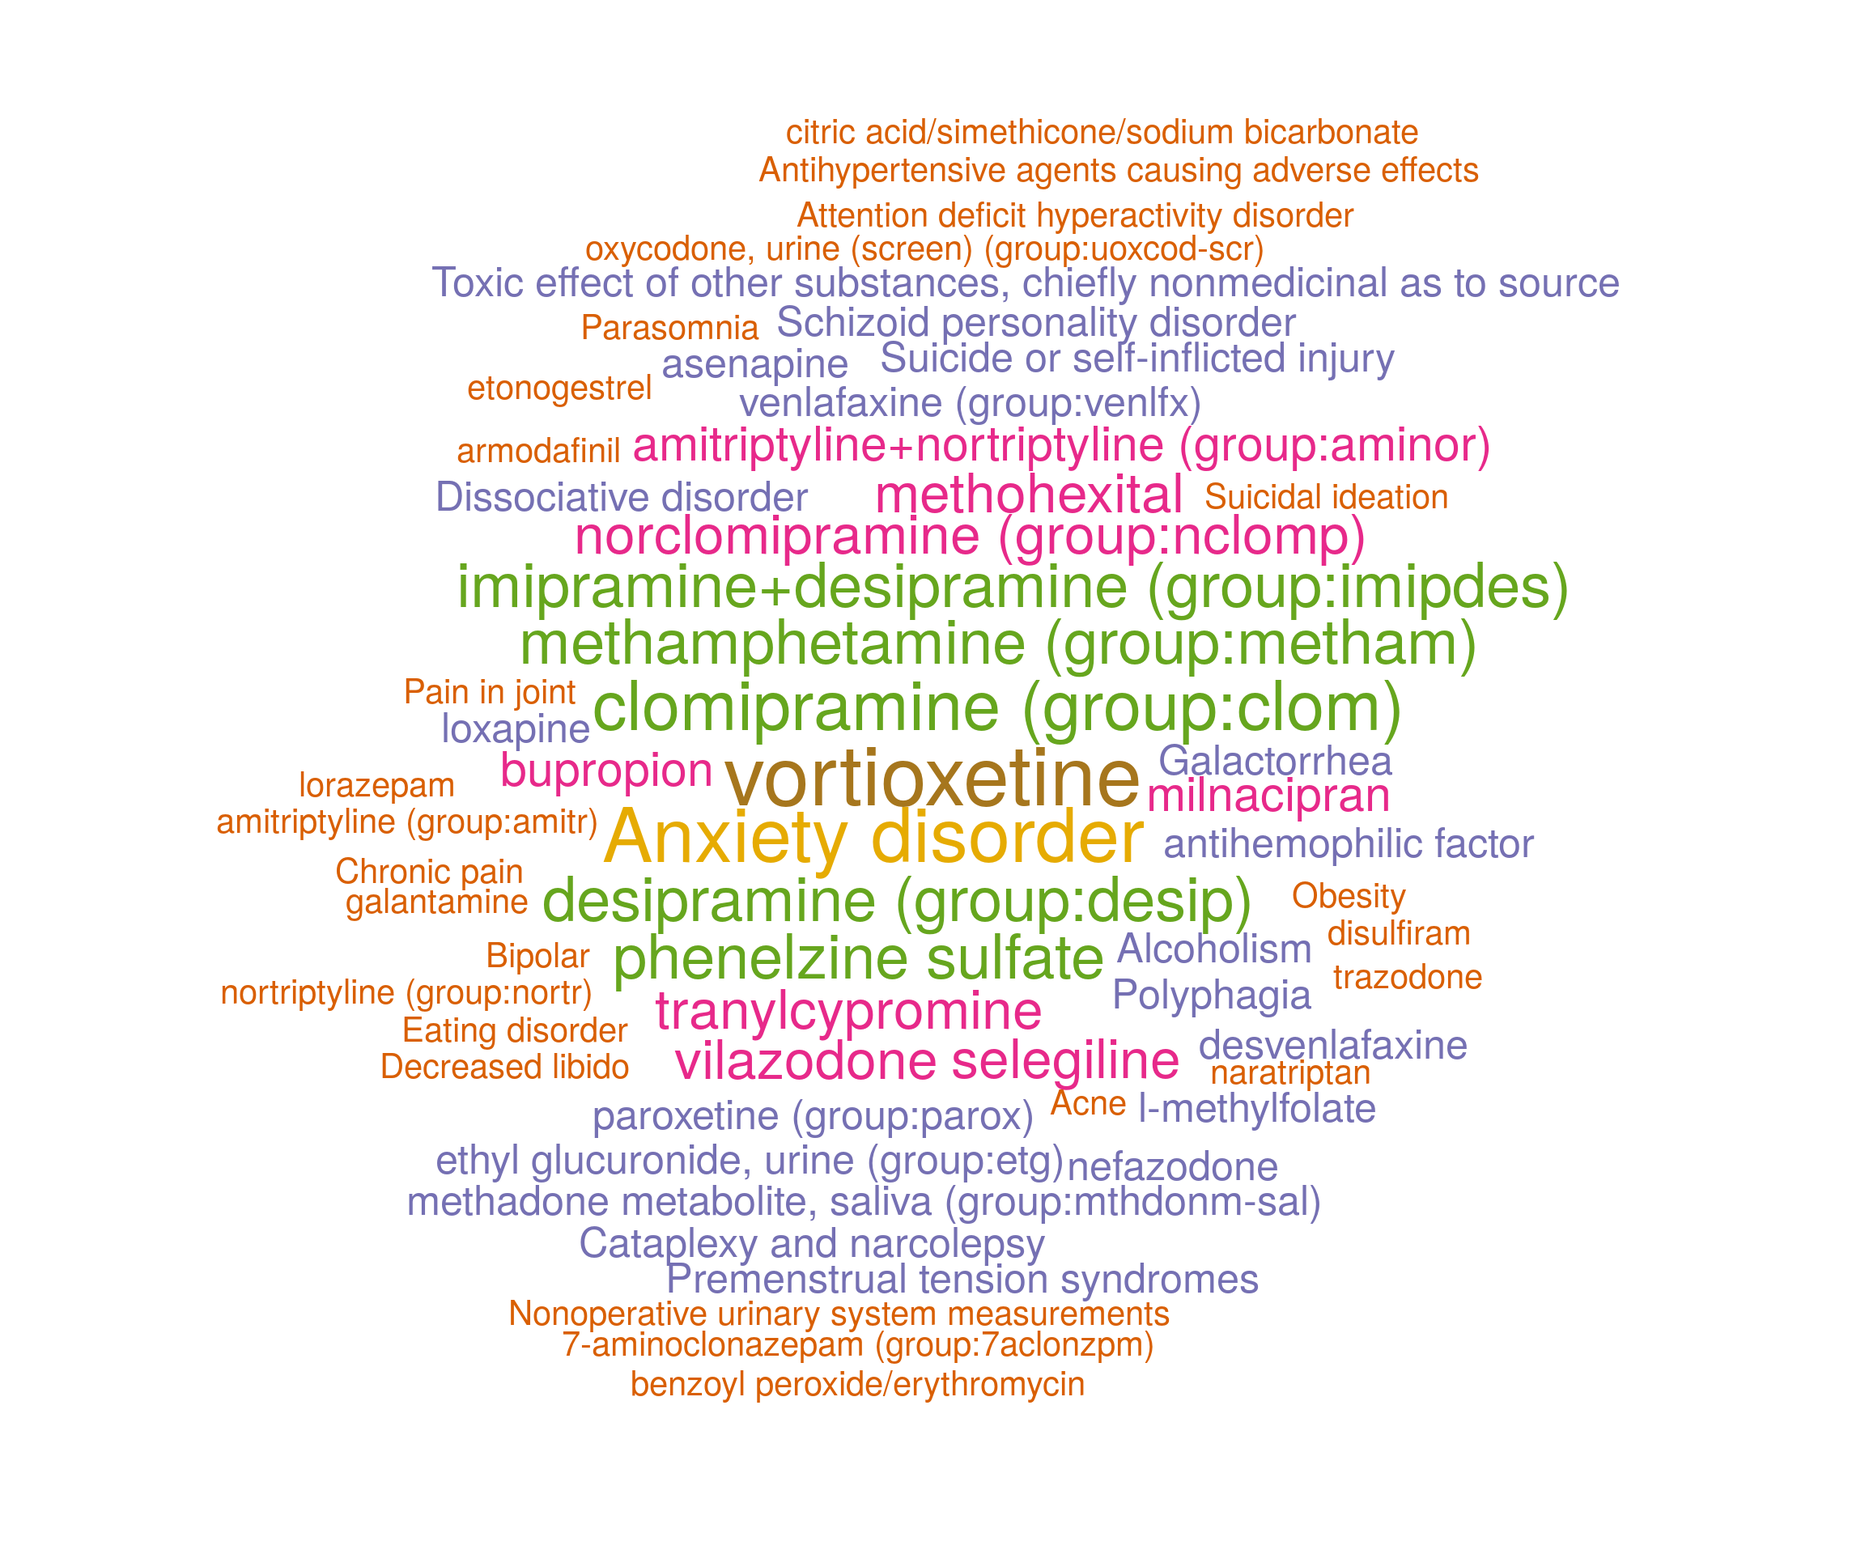
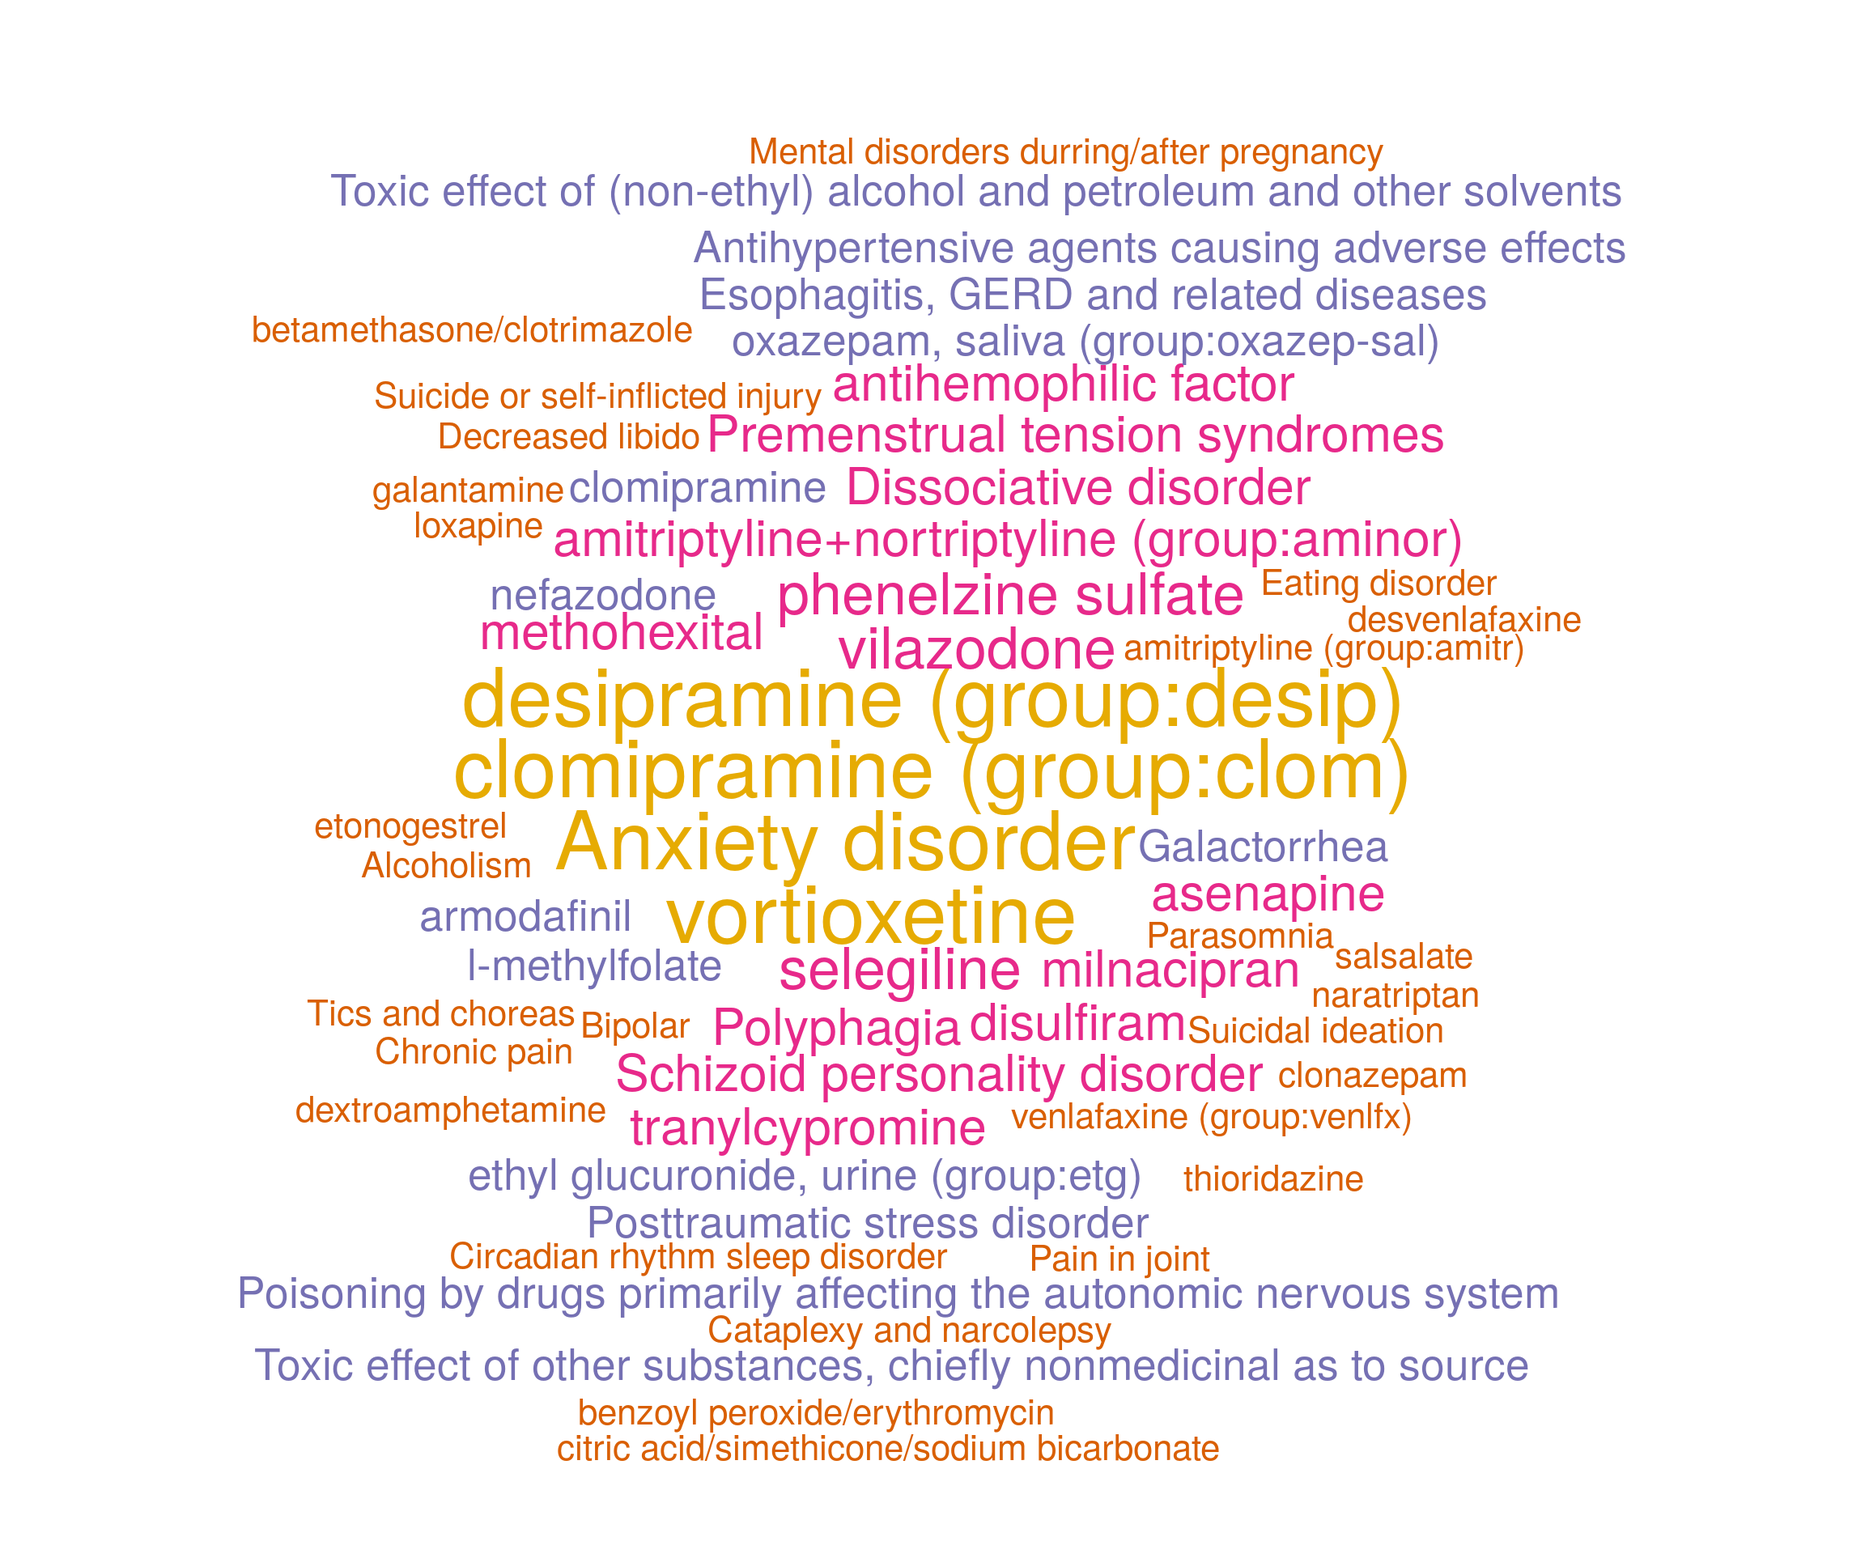
2020-05-29

Changed region(s): [[0.125, 0.0625, 0.875, 0.9375], [0.25, 0.0938, 0.2812, 0.125], [0.1875, 0.0938, 0.2188, 0.125]]

diff --git a/docs/articles/single.html b/docs/articles/single.html
@@ -88,30 +88,30 @@
 <span class="no">data</span> <span class="kw">&lt;-</span> <span class="fu"><a href="https://rdrr.io/r/base/readRDS.html">readRDS</a></span>(<span class="fu"><a href="https://rdrr.io/r/base/connections.html">url</a></span>(<span class="fu"><a href="https://rdrr.io/r/base/paste.html">paste0</a></span>(<span class="no">dir</span>, <span class="st">"depression.rds"</span>), <span class="st">"rb"</span>))
 <span class="no">dict</span> <span class="kw">&lt;-</span> <span class="fu"><a href="https://rdrr.io/r/base/readRDS.html">readRDS</a></span>(<span class="fu"><a href="https://rdrr.io/r/base/connections.html">url</a></span>(<span class="fu"><a href="https://rdrr.io/r/base/paste.html">paste0</a></span>(<span class="no">dir</span>, <span class="st">"dictionary.rds"</span>), <span class="st">"rb"</span>))</pre></body></html></div>
 <p>Feature Selection with Embeddings from Partners Healthcare</p>
-<div class="sourceCode" id="cb4"><html><body><pre class="r"><span class="fu"><a href="https://rdrr.io/r/base/system.time.html">system.time</a></span>(<span class="no">loc.fit.RPDR</span> <span class="kw">&lt;-</span> <span class="fu"><a href="../reference/loc.feature.selection.html">loc.feature.selection</a></span>(
+<div class="sourceCode" id="cb4"><html><body><pre class="r"><span class="fu"><a href="https://rdrr.io/r/base/Random.html">set.seed</a></span>(<span class="fl">123</span>)
+<span class="fu"><a href="https://rdrr.io/r/base/system.time.html">system.time</a></span>(<span class="no">loc.fit.RPDR</span> <span class="kw">&lt;-</span> <span class="fu"><a href="../reference/loc.feature.selection.html">loc.feature.selection</a></span>(
   <span class="no">data</span>$<span class="no">X_full_lst</span><span class="kw">[[</span><span class="fl">1</span>]], <span class="no">data</span>$<span class="no">Y_full_lst</span><span class="kw">[[</span><span class="fl">1</span>]],
   <span class="no">data</span>$<span class="no">X_train_lst</span><span class="kw">[[</span><span class="fl">1</span>]], <span class="no">data</span>$<span class="no">Y_train_lst</span><span class="kw">[[</span><span class="fl">1</span>]],
   <span class="no">data</span>$<span class="no">X_valid_lst</span><span class="kw">[[</span><span class="fl">1</span>]], <span class="no">data</span>$<span class="no">Y_valid_lst</span><span class="kw">[[</span><span class="fl">1</span>]],
   <span class="kw">alpha</span> <span class="kw">=</span> <span class="fl">1</span>, <span class="kw">lambda_lst</span> <span class="kw">=</span> <span class="kw">NULL</span>, <span class="kw">up_rate</span> <span class="kw">=</span> <span class="fl">10</span>,
   <span class="kw">drop_rate</span> <span class="kw">=</span> <span class="fl">0.5</span>, <span class="kw">cos_cut</span> <span class="kw">=</span> <span class="fl">0.1</span>, <span class="kw">add.ridge</span> <span class="kw">=</span> <span class="fl">TRUE</span>))</pre></body></html></div>
 <pre><code>##    user  system elapsed 
-## 109.847  16.833  98.572</code></pre>
+## 104.518  15.264  94.271</code></pre>
 <div class="sourceCode" id="cb6"><html><body><pre class="r"><span class="no">results.RPDR</span> <span class="kw">&lt;-</span> <span class="fu"><a href="https://rdrr.io/r/base/merge.html">merge</a></span>(<span class="no">loc.fit.RPDR</span>$<span class="no">results</span>, <span class="no">dict</span>, <span class="kw">all.x</span> <span class="kw">=</span> <span class="fl">TRUE</span>)
 <span class="no">results.RPDR</span></pre></body></html></div>
 <pre><code>##              name        coef                                          description
-##   1:      CCS:130 0.000000000           Other diagnostic procedures, female organs
-##   2:      CCS:182 0.013853775                                          Mammography
-##   3:      CCS:200 0.029451578             Nonoperative urinary system measurements
-##   4:      CCS:218 0.128414891 Psychological and psychiatric evaluation and therapy
-##   5:      CCS:219 0.003974169       Alcohol and drug rehabilitation/detoxification
+##   1:      CCS:130 0.007307169           Other diagnostic procedures, female organs
+##   2:      CCS:182 0.021885287                                          Mammography
+##   3:      CCS:200 0.018956719             Nonoperative urinary system measurements
+##   4:      CCS:218 0.124579578 Psychological and psychiatric evaluation and therapy
+##   5:      CCS:219 0.008452966       Alcohol and drug rehabilitation/detoxification
 ##  ---                                                                              
-## 308:  RXNORM:8629 0.013874670                                             prazosin
-## 309:  RXNORM:8787 0.000000000                                          propranolol
-## 310: RXNORM:89013 0.000000000                                         aripiprazole
-## 311: RXNORM:89905 0.000000000                                        multivitamins
-## 312:  RXNORM:9639 0.056428741                                           selegiline</code></pre>
-<div class="sourceCode" id="cb8"><html><body><pre class="r"><span class="fu"><a href="https://rdrr.io/r/base/Random.html">set.seed</a></span>(<span class="fl">1234</span>)
-<span class="fu"><a href="https://rdrr.io/pkg/wordcloud/man/wordcloud.html">wordcloud</a></span>(<span class="kw">words</span> <span class="kw">=</span> <span class="no">results.RPDR</span>$<span class="no">description</span>,
+## 305:  RXNORM:8629 0.000000000                                             prazosin
+## 306:  RXNORM:8787 0.000000000                                          propranolol
+## 307: RXNORM:89013 0.009620296                                         aripiprazole
+## 308: RXNORM:89905 0.000000000                                        multivitamins
+## 309:  RXNORM:9639 0.060960107                                           selegiline</code></pre>
+<div class="sourceCode" id="cb8"><html><body><pre class="r"><span class="fu"><a href="https://rdrr.io/pkg/wordcloud/man/wordcloud.html">wordcloud</a></span>(<span class="kw">words</span> <span class="kw">=</span> <span class="no">results.RPDR</span>$<span class="no">description</span>,
           <span class="kw">freq</span> <span class="kw">=</span> <span class="fu"><a href="https://rdrr.io/r/base/Round.html">round</a></span>(<span class="fu"><a href="https://rdrr.io/r/base/numeric.html">as.numeric</a></span>(<span class="no">results.RPDR</span>$<span class="no">coef</span>) * <span class="fl">100</span>),
           <span class="kw">random.order</span> <span class="kw">=</span> <span class="fl">FALSE</span>,
           <span class="kw">colors</span> <span class="kw">=</span> <span class="fu">brewer.pal</span>(<span class="fl">8</span>, <span class="st">"Dark2"</span>),
@@ -125,28 +125,29 @@
 ## plotted.</code></pre>
 <p><img src="single_files/figure-html/unnamed-chunk-5-1.png" width="1152"></p>
 <p>Feature Selection with Embeddings from Veteran Affairs (VA)</p>
-<div class="sourceCode" id="cb11"><html><body><pre class="r"><span class="fu"><a href="https://rdrr.io/r/base/system.time.html">system.time</a></span>(<span class="no">loc.fit.VA</span> <span class="kw">&lt;-</span> <span class="fu"><a href="../reference/loc.feature.selection.html">loc.feature.selection</a></span>(
+<div class="sourceCode" id="cb11"><html><body><pre class="r"><span class="fu"><a href="https://rdrr.io/r/base/Random.html">set.seed</a></span>(<span class="fl">123</span>)
+<span class="fu"><a href="https://rdrr.io/r/base/system.time.html">system.time</a></span>(<span class="no">loc.fit.VA</span> <span class="kw">&lt;-</span> <span class="fu"><a href="../reference/loc.feature.selection.html">loc.feature.selection</a></span>(
   <span class="no">data</span>$<span class="no">X_full_lst</span><span class="kw">[[</span><span class="fl">2</span>]], <span class="no">data</span>$<span class="no">Y_full_lst</span><span class="kw">[[</span><span class="fl">2</span>]],
   <span class="no">data</span>$<span class="no">X_train_lst</span><span class="kw">[[</span><span class="fl">2</span>]], <span class="no">data</span>$<span class="no">Y_train_lst</span><span class="kw">[[</span><span class="fl">2</span>]],
   <span class="no">data</span>$<span class="no">X_valid_lst</span><span class="kw">[[</span><span class="fl">2</span>]], <span class="no">data</span>$<span class="no">Y_valid_lst</span><span class="kw">[[</span><span class="fl">2</span>]],
   <span class="kw">alpha</span> <span class="kw">=</span> <span class="fl">1</span>, <span class="kw">lambda_lst</span> <span class="kw">=</span> <span class="kw">NULL</span>, <span class="kw">up_rate</span> <span class="kw">=</span> <span class="fl">10</span>,
   <span class="kw">drop_rate</span> <span class="kw">=</span> <span class="fl">0.5</span>, <span class="kw">cos_cut</span> <span class="kw">=</span> <span class="fl">0.1</span>, <span class="kw">add.ridge</span> <span class="kw">=</span> <span class="fl">TRUE</span>))</pre></body></html></div>
 <pre><code>##    user  system elapsed 
-## 314.037  33.523 286.888</code></pre>
+## 306.278  29.707 283.194</code></pre>
 <div class="sourceCode" id="cb13"><html><body><pre class="r"><span class="no">results.VA</span> <span class="kw">&lt;-</span> <span class="fu"><a href="https://rdrr.io/r/base/merge.html">merge</a></span>(<span class="no">loc.fit.VA</span>$<span class="no">results</span>, <span class="no">dict</span>, <span class="kw">all.x</span> <span class="kw">=</span> <span class="fl">TRUE</span>)
 <span class="no">results.VA</span></pre></body></html></div>
-<pre><code>##                        name       coef
-##   1:                CCS:130 0.01337469
-##   2:                CCS:131 0.00000000
-##   3:                CCS:156 0.00000000
-##   4:                CCS:163 0.00000000
-##   5:                CCS:182 0.00000000
-##  ---                                  
-## 465: ShortName:HCV - RNA VL 0.00000000
-## 466:         ShortName:HDLC 0.00000000
-## 467:         ShortName:LDLC 0.00000000
-## 468:      ShortName:TotChol 0.00000000
-## 469:         ShortName:Trig 0.00000000
+<pre><code>##                        name        coef
+##   1:                CCS:130 0.012795005
+##   2:                CCS:131 0.000000000
+##   3:                CCS:156 0.002758091
+##   4:                CCS:163 0.000000000
+##   5:                CCS:182 0.004621010
+##  ---                                   
+## 464: ShortName:HCV - RNA VL 0.000000000
+## 465:         ShortName:HDLC 0.000000000
+## 466:         ShortName:LDLC 0.000000000
+## 467:      ShortName:TotChol 0.000000000
+## 468:         ShortName:Trig 0.000000000
 ##                                                                        description
 ##   1:                                    Other diagnostic procedures, female organs
 ##   2:                            Other non-OR therapeutic procedures, female organs
@@ -154,23 +155,22 @@
 ##   4:                 Other non-OR therapeutic procedures on musculoskeletal system
 ##   5:                                                                   Mammography
 ##  ---                                                                              
-## 465:                                                        ShortName:HCV - RNA VL
-## 466:                                                                ShortName:HDLC
-## 467:                                                                ShortName:LDLC
-## 468:                                                             ShortName:TotChol
-## 469:                                                                ShortName:Trig</code></pre>
-<div class="sourceCode" id="cb15"><html><body><pre class="r"><span class="fu"><a href="https://rdrr.io/r/base/Random.html">set.seed</a></span>(<span class="fl">1234</span>)
-<span class="fu"><a href="https://rdrr.io/pkg/wordcloud/man/wordcloud.html">wordcloud</a></span>(<span class="kw">words</span> <span class="kw">=</span> <span class="no">results.VA</span>$<span class="no">description</span>,
+## 464:                                                        ShortName:HCV - RNA VL
+## 465:                                                                ShortName:HDLC
+## 466:                                                                ShortName:LDLC
+## 467:                                                             ShortName:TotChol
+## 468:                                                                ShortName:Trig</code></pre>
+<div class="sourceCode" id="cb15"><html><body><pre class="r"><span class="fu"><a href="https://rdrr.io/pkg/wordcloud/man/wordcloud.html">wordcloud</a></span>(<span class="kw">words</span> <span class="kw">=</span> <span class="no">results.VA</span>$<span class="no">description</span>,
           <span class="kw">freq</span> <span class="kw">=</span> <span class="fu"><a href="https://rdrr.io/r/base/Round.html">round</a></span>(<span class="fu"><a href="https://rdrr.io/r/base/numeric.html">as.numeric</a></span>(<span class="no">results.VA</span>$<span class="no">coef</span>) * <span class="fl">100</span>),
           <span class="kw">random.order</span> <span class="kw">=</span> <span class="fl">FALSE</span>,
           <span class="kw">colors</span> <span class="kw">=</span> <span class="fu">brewer.pal</span>(<span class="fl">8</span>, <span class="st">"Dark2"</span>),
           <span class="co"># scale = c(4, 0.2),</span>
           <span class="kw">rot.per</span> <span class="kw">=</span> <span class="fl">0</span>)</pre></body></html></div>
-<pre><code>## Warning in wordcloud(words = results.VA$description, freq = round(as.numeric(results.VA$coef) * :
-## Posttraumatic stress disorder could not be fit on page. It will not be plotted.</code></pre>
 <pre><code>## Warning in wordcloud(words = results.VA$description, freq = round(as.numeric(results.VA$coef)
 ## * : Psychological and psychiatric evaluation and therapy could not be fit on page. It will not be
 ## plotted.</code></pre>
+<pre><code>## Warning in wordcloud(words = results.VA$description, freq = round(as.numeric(results.VA$coef) * :
+## Posttraumatic stress disorder could not be fit on page. It will not be plotted.</code></pre>
 <p><img src="single_files/figure-html/unnamed-chunk-7-1.png" width="1152"></p>
   </div>
 

diff --git a/docs/articles/multiple.html b/docs/articles/multiple.html
@@ -91,24 +91,24 @@
   <span class="no">data</span>$<span class="no">X_valid_lst</span>[<span class="fl">1</span>:<span class="fl">2</span>], <span class="no">data</span>$<span class="no">Y_valid_lst</span>[<span class="fl">1</span>:<span class="fl">2</span>],
   <span class="kw">lambda_lst</span> <span class="kw">=</span> <span class="kw">NULL</span>, <span class="kw">add.ridge</span> <span class="kw">=</span> <span class="fl">TRUE</span>))</pre></body></html></div>
 <pre><code>##     user   system  elapsed 
-## 2099.633   41.436 2088.534</code></pre>
+## 2033.304   37.626 2027.245</code></pre>
 <div class="sourceCode" id="cb4"><html><body><pre class="r"><span class="no">int.fit.results</span></pre></body></html></div>
 <pre><code>## $lambda
-## [1] 3.441469e-05
+## [1] 2.722572e-05
 ## 
 ## $results
-##                        name       coef1       coef2
-##   1:                CCS:130 0.006011309 0.008617473
-##   2:                CCS:131 0.000000000 0.000000000
-##   3:                CCS:156 0.000000000 0.000000000
-##   4:                CCS:163 0.000000000 0.000000000
-##   5:                CCS:182 0.000000000 0.000000000
-##  ---                                               
-## 654: ShortName:HCV - RNA VL          NA 0.000000000
-## 655:         ShortName:HDLC          NA 0.000000000
-## 656:         ShortName:LDLC          NA 0.000000000
-## 657:      ShortName:TotChol          NA 0.000000000
-## 658:         ShortName:Trig          NA 0.000000000</code></pre>
+##                        name       coef1      coef2
+##   1:                CCS:130 0.008031842 0.00699418
+##   2:                CCS:131 0.000000000 0.00000000
+##   3:                CCS:156 0.000000000 0.00000000
+##   4:                CCS:163 0.000000000 0.00000000
+##   5:                CCS:182 0.000000000 0.00000000
+##  ---                                              
+## 650: ShortName:HCV - RNA VL          NA 0.00000000
+## 651:         ShortName:HDLC          NA 0.00000000
+## 652:         ShortName:LDLC          NA 0.00000000
+## 653:      ShortName:TotChol          NA 0.00000000
+## 654:         ShortName:Trig          NA 0.00000000</code></pre>
   </div>
 
   <div class="col-md-3 hidden-xs hidden-sm" id="pkgdown-sidebar">
